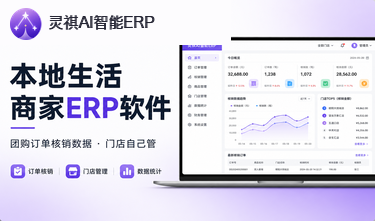
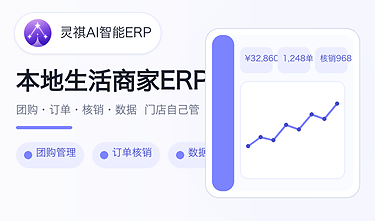
docs: 重做落地页375x221 Banner为原生清晰矢量版
官方logo品牌条一体绘制，避免AI贴图模糊与logo生硬。

diff --git a/docs/douyin-acquisition-posters/landing-banners-375x221/README.md b/docs/douyin-acquisition-posters/landing-banners-375x221/README.md
@@ -1,10 +1,10 @@
 # 营销落地页横版 Banner（375×221）
 
-审核友好：主打 **ERP 软件产品**，避开「咨询 / 代运营 / 顾问 / 诊断」。
+原生 3x 矢量绘制后锐化导出（官方 logo + 系统字体），避免 AI 贴图模糊/logo 生硬。
 
 | 文件 | 主文案 |
 |---|---|
-| lingqi-landing-375x221-01-erp-system.png | 本地生活商家ERP软件 · 团购订单核销数据 · 门店自己管 |
-| lingqi-landing-375x221-02-one-workbench.png | 一门店一个工作台 · 多平台数据看板 · AI智能助手 |
+| lingqi-landing-375x221-01-erp-system.png | 本地生活商家ERP软件 · 门店自己管 |
+| lingqi-landing-375x221-02-one-workbench.png | 一门店一个工作台 · 数据看板/AI助手 |
 
-尺寸：375×221 px。Logo：`web版/merchant-erp/public/logo.png`
+过审向：产品软件表述，无咨询/代运营/顾问。
